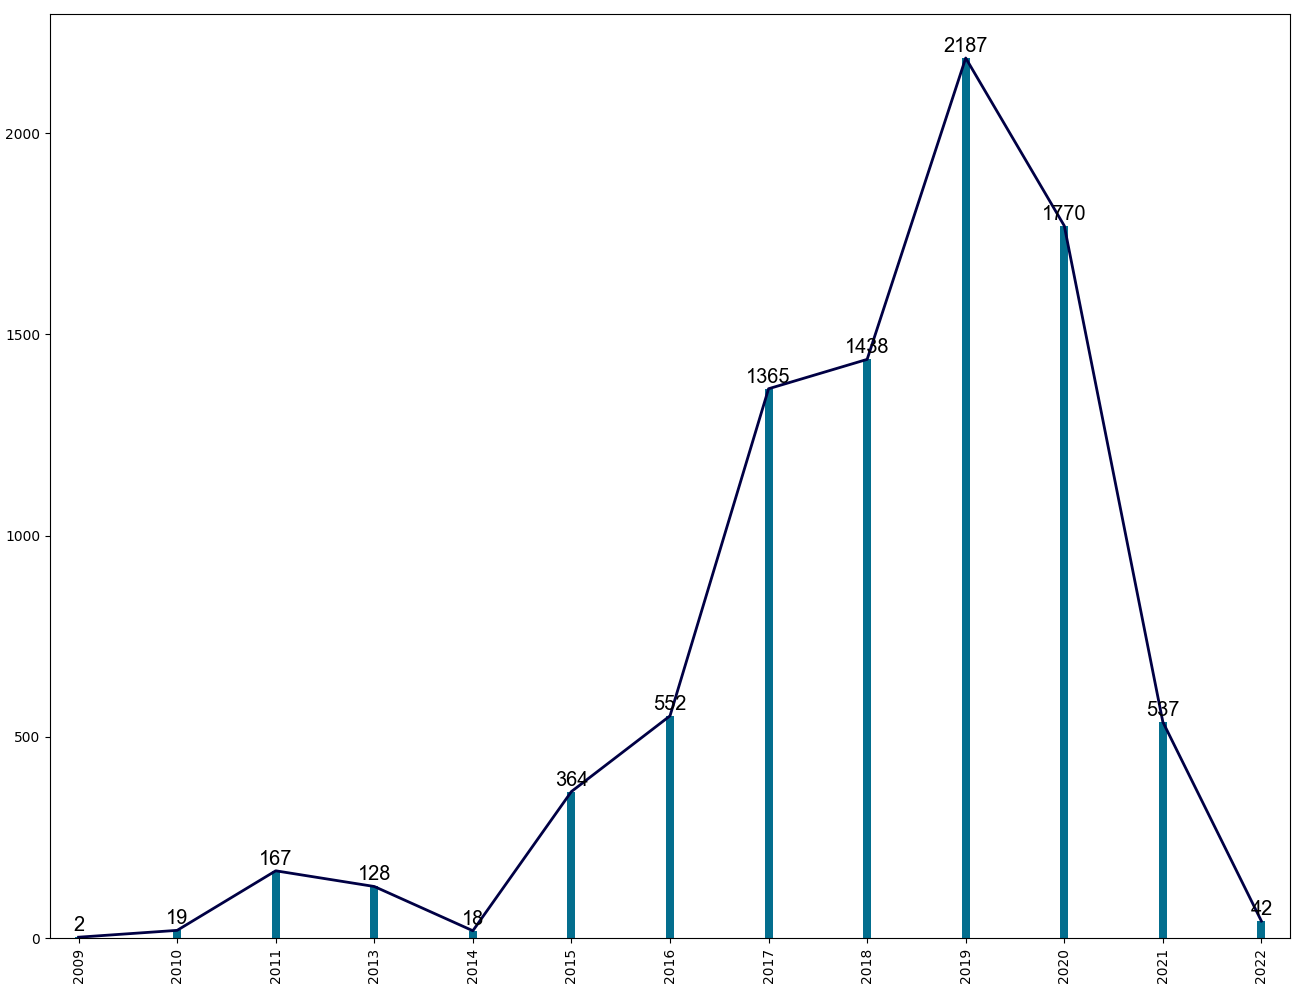
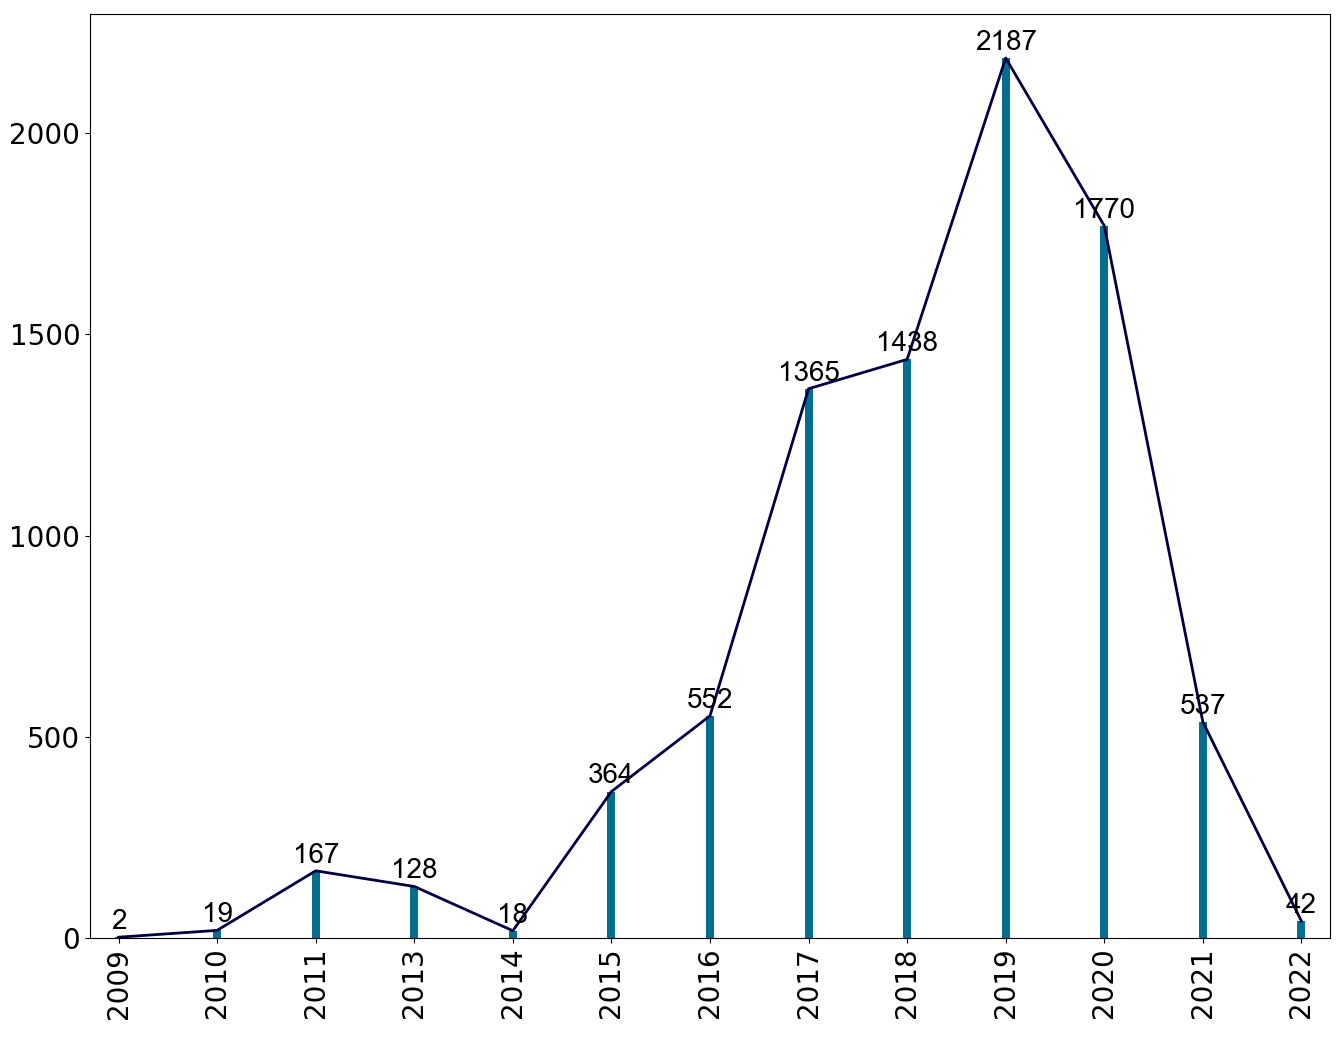
feat(author): Add graphics to author pages

diff --git a/templates/author_page.html b/templates/author_page.html
@@ -79,16 +79,15 @@
         <tr>
             <th colspan="3" style="font-family:'Open Sans', arial, sans-serif; font-size: 50px; margin-left: 20px;">
                 {{ author["name"] }}
-                <div style="font-family:'Open Sans', arial, sans-serif; margin-left: 120px; margin-top: 25px; font-size:25px;" class="info-amm">
+                <div style="font-family:'Open Sans', arial, sans-serif; margin-left: 120px; margin-top: 25px; font-size:25px;"
+                     class="info-amm">
                     <h3>Scientific researcher of the Innopolis University</h3>
                     <h3>{{ department }}</h3>
                 </div>
             </th>
         </tr>
         <tr>
-            <th colspan="5">
-                -
-            </th>
+
         </tr>
         <tr>
             <th colspan="5">
@@ -106,6 +105,26 @@ font-size:25px;">
                     </ul>
                 </div>
             </th>
+            <th style="width: 35%" id="num6564" colspan="5">
+                <div style="display: inline-block; margin-left:70px;">
+                    <img src="/static/images/graphic_author_papers.png" alt="Missing" width="475px" height="300px"
+                         style="border: 5px solid #004; margin-bottom: -100px;">
+                    <h2 class="table-label-numbers"
+                        style="color: #004; font-family: 'Open Sans', arial, sans-serif; font-size: 24px; margin-top: 120px; margin-left:120px;">
+                        Publications by year</h2>
+                </div>
+            </th>
+            <th style="width: 35%" id="num34255" colspan="5">
+                <div style="display: inline-block; margin-left:70px;">
+                    <img src="/static/images/graphic_author_citations.png" alt="Missing" width="475px" height="300px"
+                         style="border: 5px solid #004; margin-bottom: -100px;">
+                    <h2 class="table-label-numbers"
+                        style="margin-left:150px; color: #004; font-family: 'Open Sans', arial, sans-serif; font-size: 24px; margin-top: 120px;">
+                        Citations by year</h2>
+                </div>
+            </th>
+        </tr>
+        <tr>
             <th colspan="4">
                 <div class="info-amm2">
                     <div class="inline-statistics">
@@ -159,6 +178,7 @@ font-size:25px;">
             document.getElementsByClassName('sidebar')[0].classList.toggle('collapsed');
             document.getElementsByClassName('panel-delimeter')[0].classList.toggle('sidebar-opened');
         }
+
 
 
 

diff --git a/app.py b/app.py
@@ -1,11 +1,15 @@
-import pandas as pd
-
 import data
 from flask import Flask, render_template, request, send_file, url_for, redirect
+import matplotlib.pyplot as plt
+import matplotlib
+
+import pandas as pd
+
+from PIL import Image
 
 app = Flask(__name__)
 
-
+matplotlib.use('Agg')
 @app.route("/")
 def main_page():
     main_logo = url_for("static", filename="images/dark_logo.png")
@@ -70,12 +74,96 @@ def author(id):
     authors_data = data.authors.set_index("id")
     authors_data = authors_data.loc[id]
 
+    citations = authors_data["citations"]
+    citations_max = int(citations[max(citations, key=citations.get)])
+    papers_published = authors_data["papers_published"]
+    papers_published_max = int(papers_published[max(papers_published, key=papers_published.get)])
+
+    myList = citations.items()
+    myList = sorted(myList)
+    x, y = zip(*myList)
+
+    x = list(x)
+    y = list(y)
+
+    y_plot = pd.Series(y)
+
+    fig = plt.figure(figsize=(16, 12))
+    ax = y_plot.plot(kind="bar", color="#036e8e", width=0.08)
+    ax.set_xticklabels(x)
+    for label in (ax.get_xticklabels() + ax.get_yticklabels()):
+        label.set_fontsize(20)
+
+    rects = ax.patches
+
+    for rect, label in zip(rects, y):
+        height = rect.get_height()
+        ax.text(
+            rect.get_x() + rect.get_width() / 2,
+            height+citations_max/80,
+            label,
+            ha="center",
+            va="baseline",
+            family="Arial",
+            size=23.5,
+        )
+
+    ax.plot(x, y, "#004", lw=2)
+
+    fig.savefig("static/images/graphic_author_citations.png")
+    plt.close(fig)
+
+    im = Image.open("static/images/graphic_author_citations.png")
+    width, height = im.size
+    im1 = im.crop((110, 130, width - 150, height - 30))
+    im1.save("static/images/graphic_author_citations.png")
+
+    myList = papers_published.items()
+    myList = sorted(myList)
+    x, y = zip(*myList)
+
+    x = list(x)
+    y = list(y)
+
+    y_plot = pd.Series(y)
+
+    fig = plt.figure(figsize=(16, 12))
+    ax = y_plot.plot(kind="bar", color="#036e8e", width=0.08)
+    ax.set_xticklabels(x)
+    for label in (ax.get_xticklabels() + ax.get_yticklabels()):
+        label.set_fontsize(20)
+
+    rects = ax.patches
+
+    for rect, label in zip(rects, y):
+        height = rect.get_height()
+        ax.text(
+            rect.get_x() + rect.get_width() / 2,
+            height+papers_published_max/200,
+            label,
+            ha="center",
+            va="bottom",
+            family="Arial",
+            size=23.5,
+        )
+
+    ax.plot(x, y, "#004", lw=2)
+
+    fig.savefig("static/images/graphic_author_papers.png")
+    plt.close(fig)
+
+    im = Image.open("static/images/graphic_author_papers.png")
+    width, height = im.size
+    im1 = im.crop((110, 130, width - 150, height - 30))
+    im1.save("static/images/graphic_author_papers.png")
+
     if authors_data["name"] in list(data.authors_add["name"].values):
         authors_add = data.authors_add.set_index("name")
         if_photo = True
         photo_link = authors_add.loc[authors_data["name"]]["photo_link"]
         department = authors_add.loc[authors_data["name"]]["department"]
         disciplines = authors_add.loc[authors_data["name"]]["disciplines"]
+
 
     else:
         if_photo = False

diff --git a/data.py b/data.py
@@ -384,32 +384,14 @@ def date_citation():  # pragma: no cover
                 "Citations"
             ][ind]
 
-    # return sorted(dict.items())
     return dict
 
 
 tuple = date_citation()
 
-# print(tuple)
 myList = tuple.items()
 myList = sorted(myList)
 x, y = zip(*myList)
-
-# fig, axes = plt.subplots(1, 1, figsize=(16, 12))
-#
-# axes.plot(x, y, "#004", lw=2)
-# axes.grid(False)
-# axes.bar(x, y, color="#036e8e", width=0.08)
-# plt.ylim(ymin=0, ymax=2200)
-# plt.rc("axes", labelsize=1000)
-
-# fig.savefig("static/images/graphic.png")
-# plt.close(fig)
-#
-# im = Image.open("static/images/graphic.png")
-# width, height = im.size
-# im1 = im.crop((150, 130, width - 150, height - 100))
-# im1.save("static/images/graphic.png")
 
 x = list(x)
 y = list(y)
@@ -419,6 +401,8 @@ y_plot = pd.Series(y)
 fig = plt.figure(figsize=(16, 12))
 ax = y_plot.plot(kind="bar", color="#036e8e", width=0.08)
 ax.set_xticklabels(x)
+for label in (ax.get_xticklabels() + ax.get_yticklabels()):
+	label.set_fontsize(20)
 
 rects = ax.patches
 
@@ -426,12 +410,12 @@ for rect, label in zip(rects, y):
     height = rect.get_height()
     ax.text(
         rect.get_x() + rect.get_width() / 2,
-        height + 5,
+        height + 5.6,
         label,
         ha="center",
         va="bottom",
         family="Arial",
-        size="x-large",
+        size=20,
     )
 
 ax.plot(x, y, "#004", lw=2)
@@ -441,5 +425,5 @@ plt.close(fig)
 
 im = Image.open("static/images/graphic.png")
 width, height = im.size
-im1 = im.crop((150, 130, width - 150, height - 80))
+im1 = im.crop((110, 130, width - 150, height - 30))
 im1.save("static/images/graphic.png")
